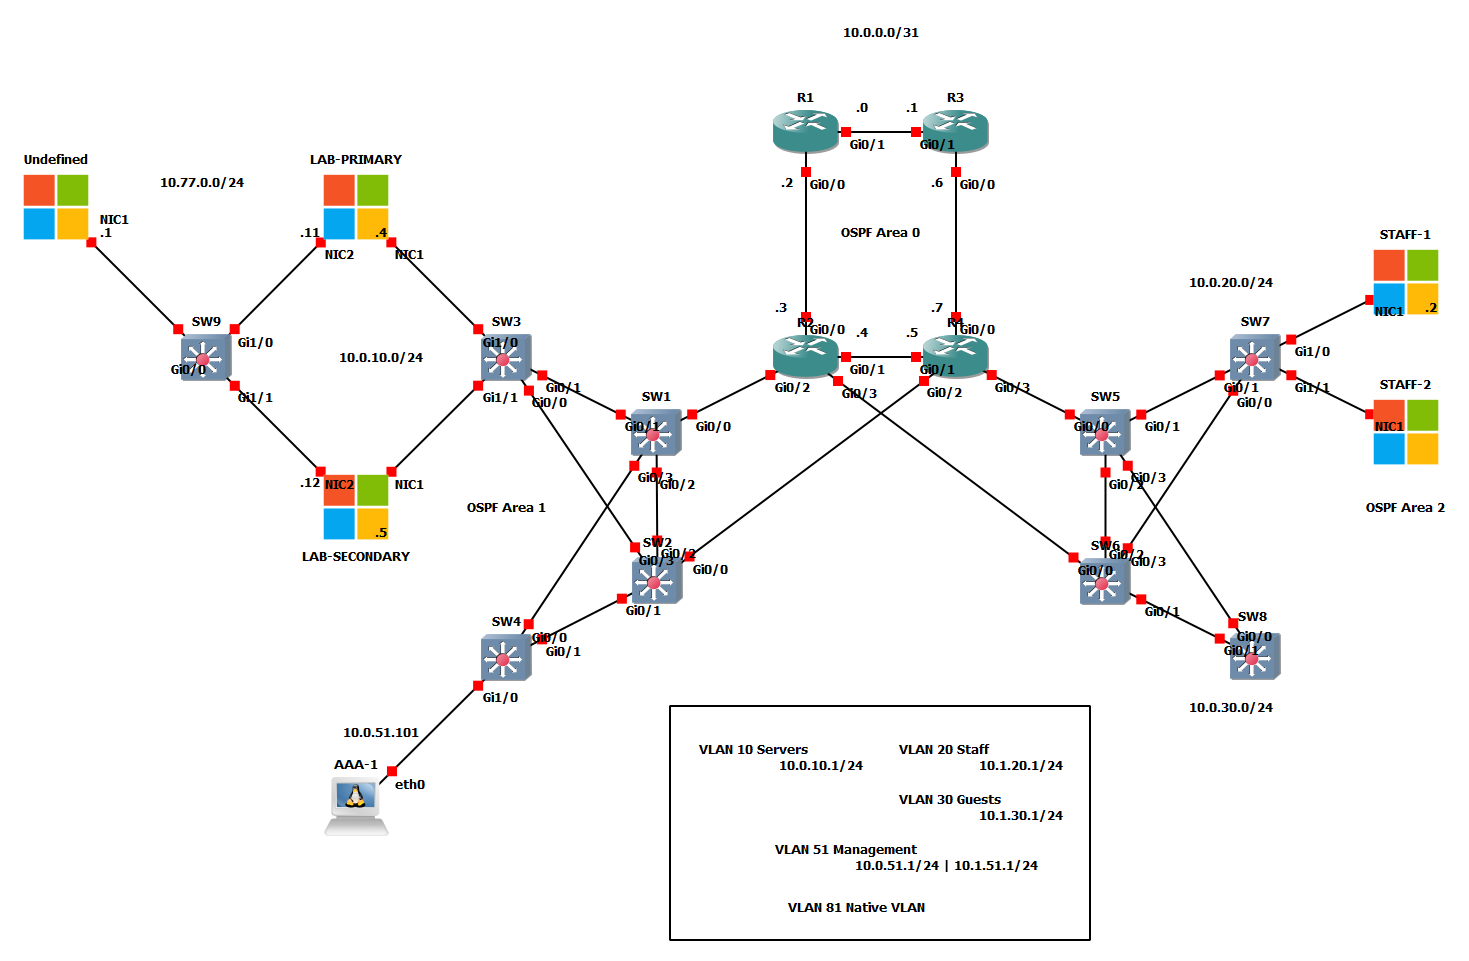
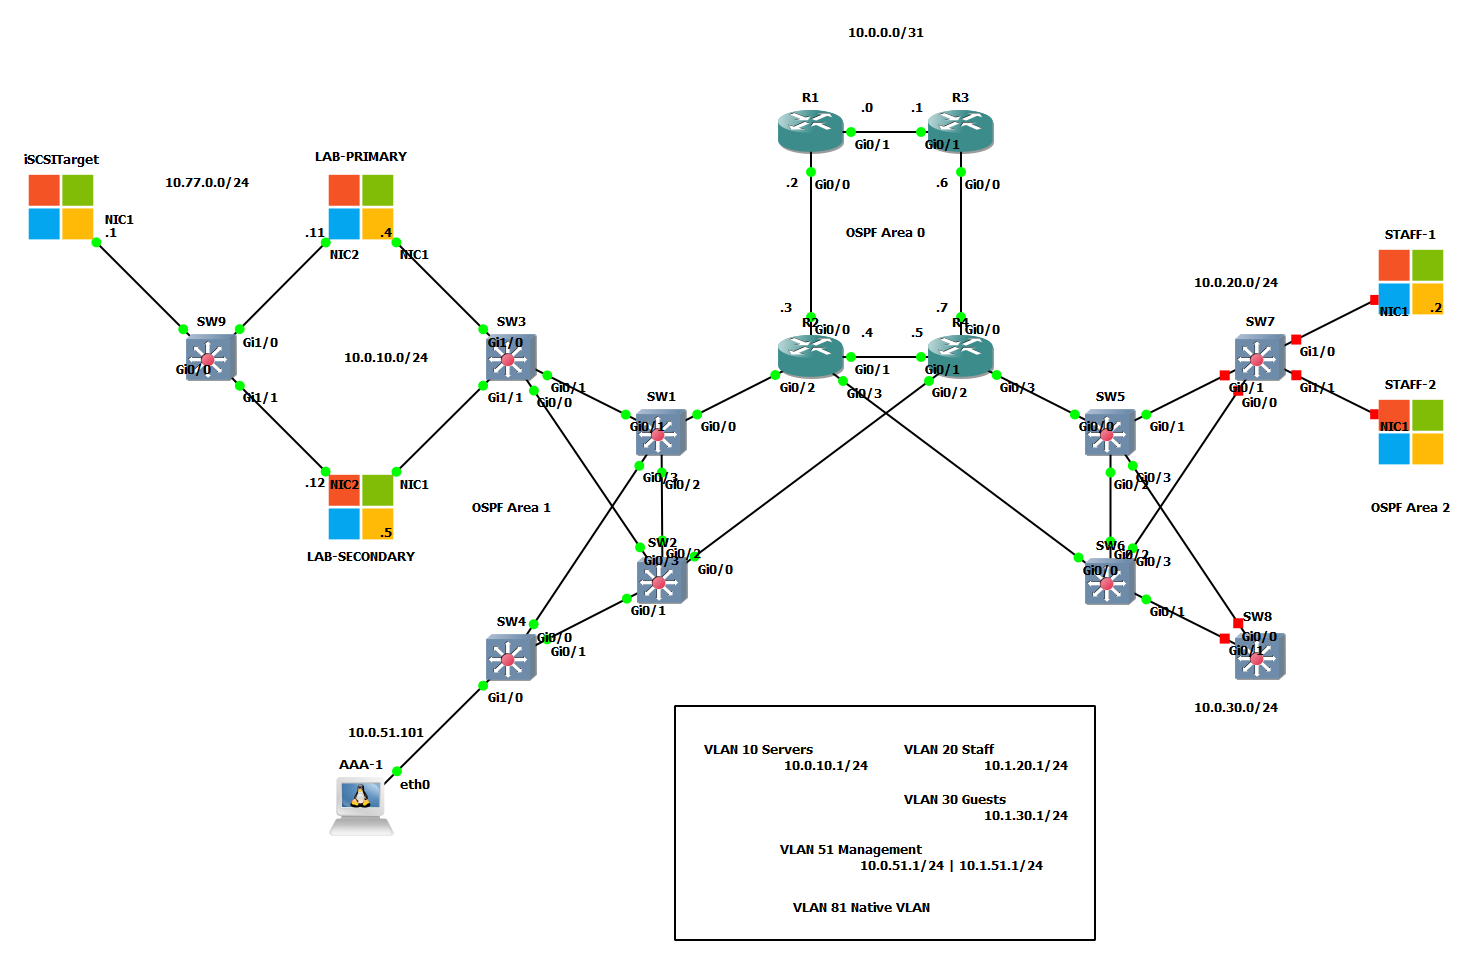
implemented iscsi target and initiator

diff --git a/SOP/Windows Server/Install and configure a iSCSI Target and Initiator on Windows Servers.md b/SOP/Windows Server/Install and configure a iSCSI Target and Initiator on Windows Servers.md
@@ -1,0 +1,48 @@
+---
+creation date: 2025-08-12 10:53
+modification date: 2025-08-12 10:53
+version: "1"
+---
+## Purpose
+To provide a standardize procedure to install a iSCSI Target computer to serve block storage and a iSCSI Initiator to connect and manage the block storage.
+## Scope
+This SOP applies to server administrators to install and configure the iSCSI participating computers to enable secure, reliable, and optimized communication between iSCSI initiators and targets for storage access.
+## Procedures
+#### 1. Pre-requisite
+- A designated iSCSI Target computer with a static IP address and available disk space or physical disks.
+- A designated iSCSI Initiator computer with a static IP address.
+- A CHAP user name and password to authenticate the connection.
+- Verified connectivity between iSCSI Target and Initiator computers in an isolated subnet.
+- iSCSI virtual disk space and redundancy requirements.
+#### 2. Install iSCSI Target Server
+1. On the designated iSCSI Target computer, open Server Manager, select Manage/Add Roles and Features.
+2. On the Before You Begin page, click Next.
+3. On the Installation Type page, select Role-based or feature-based installation and click Next.
+4. On the Server Selection, select Select a server from the server pool then select the iSCSI Target computer from the Server Pool and click Next.
+5. On Server Roles page, in the Roles menu, expand to and select File and Storage Servers/File and iSCSI Services/iSCSI Target Server. Click Next.
+6. On Features page, click Next.
+7. On Confirmation page, review the changes and click Next.
+8. Results page will show the completion of the installation.
+#### 3. Configure iSCSI Target Server
+1. At the Server Manager, on the left menu panel, click File and Storage Services.
+2. On this left menu panel, click iSCSI.
+3. Above the iSCSI Virtual Disks table, click on Tasks and select New iSCSI Virtual Disk....
+4. On the iSCSI Virtual Disk Location page, select the iSCSI Target server computer, then select a location on the computer where the virtual disk will be located: either a Volume-based location or a custom path. Click Next.
+5. On the iSCSI Virtual Disk Name page, provide a Name and optionally a description then click Next.
+6. On the iSCSI Virtual Disk Size page, in the Size field input an initial size, then based on capacity requirements select from Fixed size, Dynamically expanding or Differencing. Ensure to read and complete the sub-options if required. Click Next.
+7. On the iSCSI Target page, select from an existing iSCSI Target list or select New iSCSI Target.
+8. On the Target Name and Access page, provide a Name and optionally a description.
+9. On the Access Servers, click Add... to open the Add initiator ID window. In this window, select Enter a value for the selected type; Change the Type using the dropdown box to IP Address, then enter as the value the IP Address of the iSCSI Initiator computer. Click OK. Returning to the wizard window, click Next.
+10. On the Enable Authentication page, click Enable CHAP, and enter the provided User name and Password. Click Next.
+11. On the Confirmation page, review the settings. Click Create.
+12. On the Results page, you will see the progress and completion of the iSCSI Virtual Disk and Target creation.
+#### 3. Configure iSCSI Initiator computer
+1. Open Server Manager, click Tools, and click iSCSI Initiator to open the iSCSI Initiator Properties window.
+2. In the Targets tab, under Quick Connect, enter the IP Address of the iSCSI Target server and click Quick Connect.... You will find the server under Discovered Targets but if CHAP is configured on the Target, you will find it is Unable to Login to the Target in the Progress report. Click Done.
+3. Select the iSCSI target in the Discovered targets table and below click Connect.... In this Connect To Target window, click Advanced.... In the Advanced Settings window, click Enable CHAP log on and enter the CHAP user name and password. Click Ok. Click OK again.
+4. On the iSCSI Initiator Properties, you should see that the status of the Target server is Connected.
+## Notes and references
+1. [iSCSI Target Server Overview](https://learn.microsoft.com/en-us/previous-versions/windows/it-pro/windows-server-2012-r2-and-2012/hh848272(v=ws.11))
+2. [How to Configure and Connect an iSCSI Disk on Windows Server](https://woshub.com/configure-iscsi-traget-and-initiator-windows-server/)
+## Revision History
+- Version 1: Created.

diff --git a/README.md b/README.md
@@ -44,6 +44,12 @@ A basic topology of a Windows Server based network. Implements routing and switc
 	- TACACS+ users:
 		- gns3 - gns3
 		- readonly - gns3
+4. **iSCSCITarget**
+  - 10.77.0.1/24
+  - gateway 10.77.0.11
+  - iSCSI
+   1. - iSCSI Virtual Disk: BlockStore
+		 	- iSCSI Target: blockstoretarget
 #### Routers
 - OSPFVv3 Area 1
 	- VRRP
@@ -81,3 +87,5 @@ A basic topology of a Windows Server based network. Implements routing and switc
 		3. Adjusted IP services and addressing according to these changes
 	2. Implemented access port security and root guard to secure Layer 2 networking
 	3. Added an isolated subnet for future implementation of secure storage
+- 08/11/2025
+  1. Converted Undefined host to iSCSITarget serving a iSCSI VD to LAB-PRIMARY
